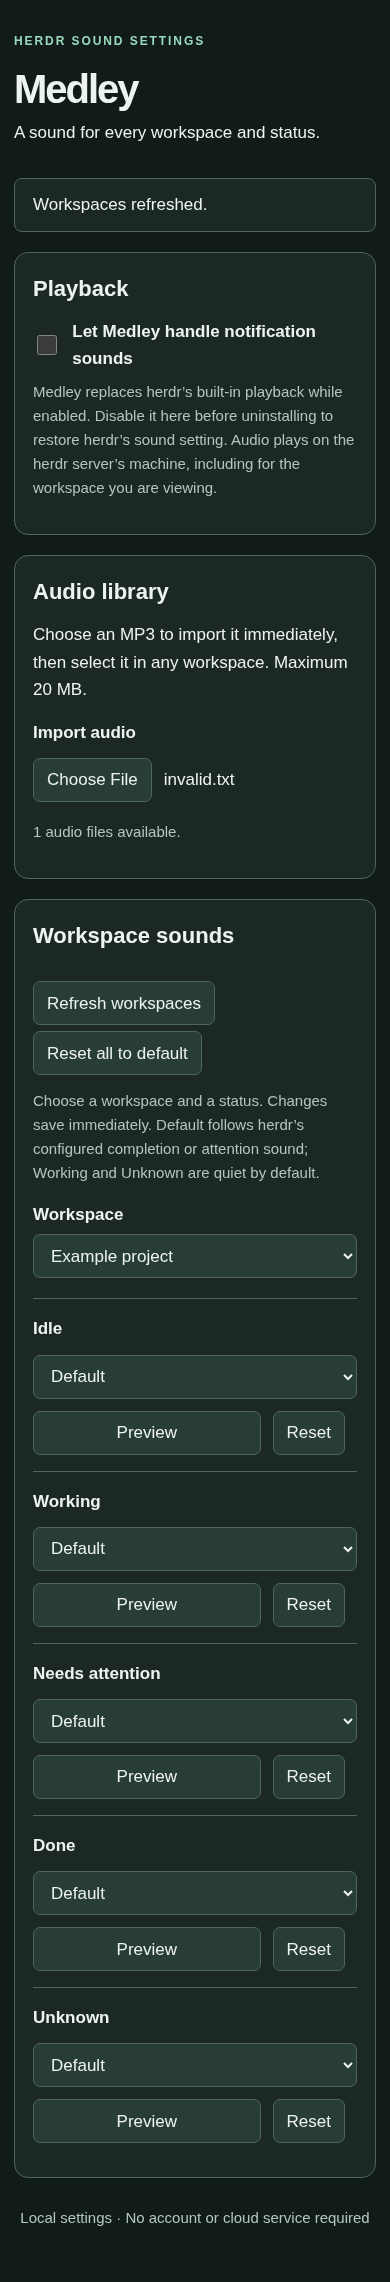
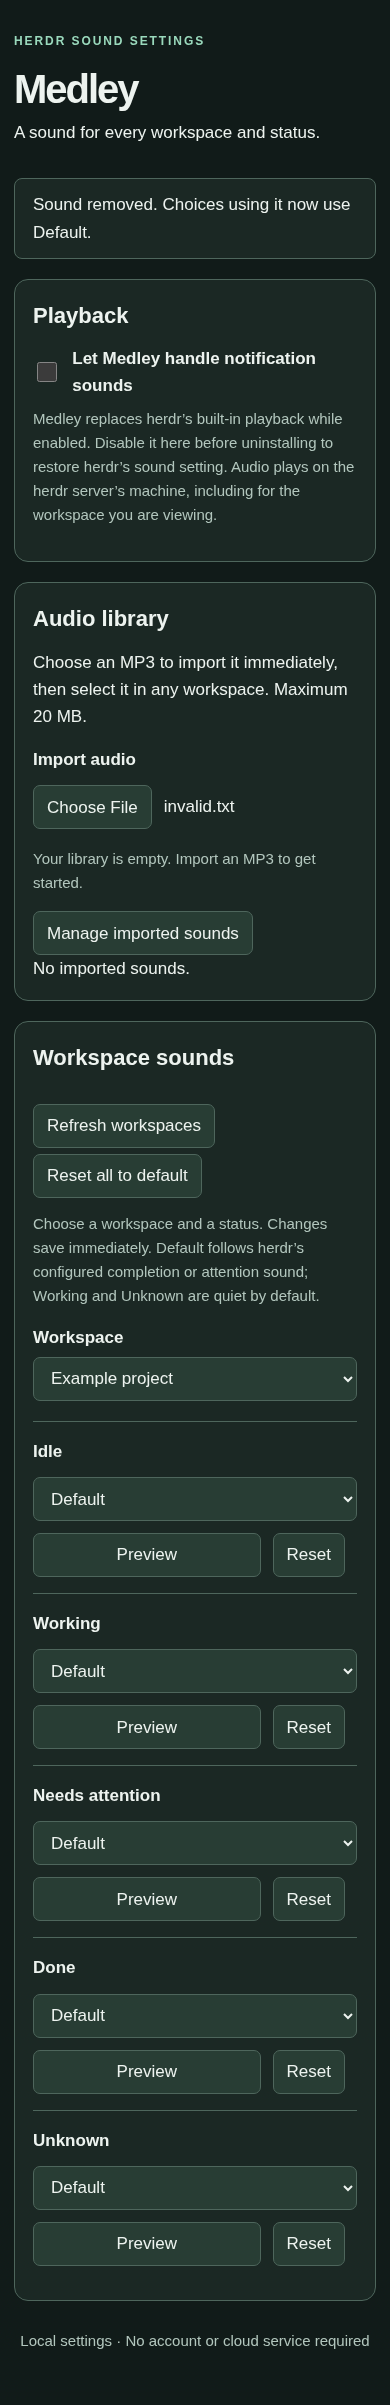
Manage imported sounds and reset removed sound assignments

diff --git a/assets/style.css b/assets/style.css
@@ -1,1 +1,3 @@
 :root{color-scheme:light dark;--bg:#f5f3ee;--panel:#fff;--ink:#202b29;--muted:#50635e;--border:#c1ccc7;--accent:#215f50;--button:#e8f1ed;--error:#9c2222}*{box-sizing:border-box}body{margin:0;background:var(--bg);color:var(--ink);font:1.0625rem/1.6 system-ui,sans-serif}main{max-width:1040px;margin:auto;padding:40px 24px}header{margin-bottom:32px}h1{font-size:48px;line-height:1.1;letter-spacing:-2px;margin:8px 0}h2{font-size:22px;margin:0 0 12px}.eyebrow{font-size:12px;font-weight:750;letter-spacing:.16em;color:var(--accent)}section{background:var(--panel);border:1px solid var(--border);border-radius:14px;padding:24px;margin:20px 0}p{margin:8px 0 16px}.help,footer{font-size:.9375rem;color:var(--muted)}button,select,input{font:inherit}button,select,input::file-selector-button{background:var(--button);color:var(--ink);border:1px solid var(--border);border-radius:7px;min-height:44px;padding:7px 13px}button,input::file-selector-button{cursor:pointer}input::file-selector-button{font:inherit;margin-right:12px}button:hover,input::file-selector-button:hover{border-color:var(--accent)}button:disabled,input:disabled::file-selector-button{opacity:.6;cursor:wait}:focus-visible{outline:3px solid var(--accent);outline-offset:3px}label{display:block;font-weight:600;margin-bottom:6px}.toggle{display:flex;gap:12px;align-items:center}.toggle input{width:22px;height:22px}input[type=file]{max-width:100%;margin:6px 8px 10px 0}.section-heading{display:flex;justify-content:space-between;gap:16px;flex-wrap:wrap}.section-heading button{margin-bottom:6px}.filters select{width:100%;max-width:550px;margin-bottom:20px}.rule{display:grid;grid-template-columns:150px minmax(160px,1fr) auto auto;align-items:center;gap:12px;padding:16px 0;border-top:1px solid var(--border)}.rule label{margin:0}.rule select{min-width:0;width:100%}#feedback{background:var(--panel);border:1px solid var(--border);padding:12px 18px;border-radius:8px}#error{color:var(--error);font-weight:600}footer{text-align:center;margin:28px 0}@media(max-width:640px){main{padding:24px 14px}section{padding:18px}.rule{grid-template-columns:1fr auto auto}.rule label{grid-column:1/-1}.rule select{grid-column:1/-1}h1{font-size:40px}}@media(prefers-color-scheme:dark){:root{--bg:#111b19;--panel:#1b2824;--ink:#edf3ef;--muted:#b2c6bd;--border:#4e665c;--accent:#9ad9bc;--button:#283d34;--error:#ffb3ad}}
+
+.library-file{display:flex;align-items:center;justify-content:space-between;gap:16px;padding:12px 0;border-bottom:1px solid var(--border)}.library-file span{overflow-wrap:anywhere;min-width:0}

diff --git a/assets/index.html b/assets/index.html
@@ -3,7 +3,7 @@
 <body><main><header><p class="eyebrow">HERDR SOUND SETTINGS</p><h1>Medley</h1><p>A sound for every workspace and status.</p></header>
 <p id="feedback" role="status" aria-live="polite">Loading settings…</p><p id="error" role="alert" hidden></p><audio id="player" controls hidden aria-label="Sound preview"></audio>
 <section aria-labelledby="playback-heading"><h2 id="playback-heading">Playback</h2><label class="toggle"><input type="checkbox" id="enabled"> Let Medley handle notification sounds</label><p class="help">Medley replaces herdr’s built-in playback while enabled. Disable it here before uninstalling to restore herdr’s sound setting. Audio plays on the herdr server’s machine, including for the workspace you are viewing.</p></section>
-<section aria-labelledby="library-heading"><h2 id="library-heading">Audio library</h2><p>Choose an MP3 to import it immediately, then select it in any workspace. Maximum 20 MB.</p><label for="upload">Import audio</label><input type="file" accept=".mp3,audio/mpeg" id="upload"><p id="library" class="help"></p></section>
+<section aria-labelledby="library-heading"><h2 id="library-heading">Audio library</h2><p>Choose an MP3 to import it immediately, then select it in any workspace. Maximum 20 MB.</p><label for="upload">Import audio</label><input type="file" accept=".mp3,audio/mpeg" id="upload"><p id="library" class="help"></p><button id="manage-library" aria-expanded="false" aria-controls="library-files">Manage imported sounds</button><div id="library-files" hidden></div></section>
 <section aria-labelledby="rules-heading"><div class="section-heading"><h2 id="rules-heading">Workspace sounds</h2><div><button id="refresh">Refresh workspaces</button> <button id="reset">Reset all to default</button> <button id="undo" hidden>Undo reset</button></div></div><p class="help">Choose a workspace and a status. Changes save immediately. Default follows herdr’s configured completion or attention sound; Working and Unknown are quiet by default.</p>
 <div class="filters"><div><label for="workspace">Workspace</label><select id="workspace"></select></div></div><div id="rules"></div></section>
 <footer>Local settings · No account or cloud service required</footer></main></body></html>

diff --git a/assets/app.js b/assets/app.js
@@ -48,6 +48,31 @@ function drawRules() {
     row.append(label,select,preview,reset); $('rules').append(row);
   }
 }
+function drawLibrary() {
+  $('library-files').replaceChildren();
+  for (const audio of model.audio.slice().sort((a,b)=>a.name.localeCompare(b.name,undefined,{sensitivity:'base',numeric:true}))) {
+    const row = document.createElement('div'); row.className = 'library-file';
+    const name = document.createElement('span'); name.textContent = audio.name.replace(/\.mp3$/i,'');
+    const remove = document.createElement('button'); remove.textContent = 'Remove';
+    remove.setAttribute('aria-label','Remove ' + name.textContent);
+    remove.onclick = () => {
+      if (!confirm('Remove “' + name.textContent + '” from the library? Every workspace/status using it will return to Default. You can import the file again later.')) return;
+      return run('Sound removed. Choices using it now use Default.',async () => {
+        await request('/remove',{id:audio.id});
+        $('player').pause(); $('player').hidden=true;
+        savedRules=undefined; $('undo').hidden=true;
+        await load(); $('manage-library').focus();
+      });
+    };
+    row.append(name,remove); $('library-files').append(row);
+  }
+  if (!model.audio.length) $('library-files').textContent='No imported sounds.';
+}
+$('manage-library').onclick = () => {
+  const expanded = $('manage-library').getAttribute('aria-expanded') !== 'true';
+  $('manage-library').setAttribute('aria-expanded',String(expanded));
+  $('library-files').hidden = !expanded;
+};
 async function load() {
   const selected = $('workspace').value;
   model = await request('/api');
@@ -56,6 +81,7 @@ async function load() {
   $('workspace').replaceChildren(...model.workspaces.map(w => option(w.workspace_id,w.label || w.workspace_id)));
   if (model.workspaces.some(w => w.workspace_id === selected)) $('workspace').value = selected;
   drawRules();
+  drawLibrary();
 }
 $('workspace').onchange = drawRules;
 $('refresh').onclick = () => run('Workspaces refreshed.',load);

diff --git a/medley/core.py b/medley/core.py
@@ -107,12 +107,33 @@ def import_audio(name, content):
             os.unlink(temporary)
 
 
+def remove_audio(key):
+    if not isinstance(key, str) or len(key) != 64 or any(c not in '0123456789abcdef' for c in key):
+        raise ValueError('Choose an audio file from the library.')
+    with locked(config_dir()):
+        if key not in {audio['id'] for audio in library()}:
+            raise ValueError('This sound is no longer in the library. Refresh and try again.')
+        data = settings()
+        for workspace in list(data['rules']):
+            rules = data['rules'][workspace]
+            for status in list(rules):
+                if rules[status] == key:
+                    del rules[status]
+            if not rules:
+                del data['rules'][workspace]
+        write_json(config_dir() / 'settings.json', data)
+        names = read_json(config_dir() / 'library.json', {})
+        names.pop(key, None)
+        write_json(config_dir() / 'library.json', names)
+        (config_dir() / 'audio' / (key + '.mp3')).unlink()
+
+
 def set_rule(workspace, status, choice):
     if status not in STATUSES or not isinstance(workspace, str) or len(workspace) > 200:
         raise ValueError('Choose a valid workspace and status.')
-    if choice not in ('default', 'none') and choice not in {a['id'] for a in library()}:
-        raise ValueError('Choose an audio file from the library.')
     def change(data):
+        if choice not in ('default', 'none') and choice not in {a['id'] for a in library()}:
+            raise ValueError('Choose an audio file from the library.')
         rules = data['rules'].setdefault(workspace, {})
         if choice == 'default':
             rules.pop(status, None)

diff --git a/tests/test_medley.py b/tests/test_medley.py
@@ -49,6 +49,21 @@ class MedleyTests(unittest.TestCase):
             with self.assertRaises(ValueError):
                 core.set_rule('w1', status, choice)
 
+    def test_remove_resets_all_uses_and_preserves_other_rules(self):
+        key = core.import_audio('remove.mp3', (core.ROOT / 'assets/done.mp3').read_bytes())
+        core.set_rule('w1', 'done', key)
+        core.set_rule('w2', 'idle', key)
+        core.set_rule('w2', 'working', 'none')
+        core.remove_audio(key)
+        self.assertEqual(core.settings()['rules'], {'w2': {'working': 'none'}})
+        self.assertEqual(core.library(), [])
+        self.assertEqual(core.resolve(core.settings(), 'w1', 'done'), core.ROOT / 'assets/done.mp3')
+        with self.assertRaises(ValueError):
+            core.set_rule('w1', 'done', key)
+        for invalid in ['../../file', key]:
+            with self.assertRaises(ValueError):
+                core.remove_audio(invalid)
+
     def test_invalid_import(self):
         for name, content in [('file.wav', b'x'), ('file.mp3', b''), ('file.mp3', b'invalid audio')]:
             with self.assertRaises(ValueError):

diff --git a/medley/app.py b/medley/app.py
@@ -59,7 +59,9 @@ def serve(open_browser=True, port=0):
                 if not 0 < length <= core.MAX_AUDIO * 2:
                     raise ValueError('Request is empty or too large. Maximum audio size is 20 MB.')
                 data = json.loads(self.rfile.read(length))
-                if self.path == '/rule':
+                if self.path == '/remove':
+                    core.remove_audio(data['id'])
+                elif self.path == '/rule':
                     core.set_rule(data['workspace'], data['status'], data['choice'])
                 elif self.path == '/reset':
                     core.update(lambda settings: settings.update(rules={}))

diff --git a/docs/validation.md b/docs/validation.md
@@ -142,3 +142,35 @@ all 11 Python checks also passed. Selection IDs and stored library order unchang
 Input-and-interaction: existing native single-select, labels, keyboard operation,
 validation/recovery, safe defaults and reset/undo remain unchanged and browser-tested.
 No password input or new action. No vendored block extended.
+
+## Manage imported sounds — 2026-10-20
+
+Expandable native button reveals imported sounds with named Remove buttons.
+Confirmation explains all affected choices return to Default. Backend removal
+uses the configuration lock, validates a SHA-256 ID and membership, resets every
+reference before deleting the imported copy, and preserves unrelated rules.
+Rule validation now occurs under the same lock, preventing new references racing
+removal. Removal also invalidates the page's reset undo snapshot.
+
+12 Python tests passed, including multi-workspace reset, unrelated-rule preservation,
+missing/traversal rejection and default resolution. Chromium tests passed for
+viewing the list, cancelling confirmation, successful removal, and dropdown reset.
+Security: PASS for authenticated endpoint routing and strict path validation;
+original source files are never removal targets. Existing auth tests passed.
+
+Control-and-feedback checks: (1) existing busy status followed by explicit removal
+confirmation; (2) disclosure closes freely and native confirmation cancels removal;
+(3) confirmation names default reset and busy state prevents repeat actions;
+(4) missing sound errors advise refresh, controls recover through existing handler;
+(5) only imported copy and referencing choices affected, unrelated rules tested;
+(6) busy feedback immediate; (7) local bounded operation uses existing busy state;
+(8) no new routes, selected workspace retained after load.
+Input-and-interaction checks: (1) IDs validated server-side; (2) recoverable error;
+(3) native named buttons and aria-expanded/controls; (4) explicit Remove action with
+confirmation; (5) existing library names reused; (6) no new reset/clear button;
+(7) no passwords; (8) native sound selectors unchanged.
+Aesthetic-and-clear checks: (1) list initially collapsed; (2) visible named actions;
+(3) no motion; (4) sorted list and per-file rows; (5) shared theme/font tokens and
+wrapping long names, mobile overflow test passes; (6) native keyboard controls and
+existing keyboard test pass, screen-reader/manual zoom not independently tested.
+No vendored layout extended. Synthetic captures refreshed by browser tests.

diff --git a/README.md b/README.md
@@ -37,6 +37,8 @@ A workspace may contain several agents. Medley reads herdr's **combined workspac
 
 Default follows herdr's configured `done_path` / `request_path`, then `path`. If no usable custom file exists, Medley uses herdr's bundled completion or attention clip. Idle and Done use completion; Needs attention uses attention; Working and Unknown are quiet. Explicit selections can add audio to any status.
 
+Use **Manage imported sounds** to view the library and remove a sound. Removal asks for confirmation and resets every workspace/status using that sound to Default. It removes only Medley’s imported copy, not the original file.
+
 ## Where audio plays
 
 Plugin hooks run on the **herdr server machine**, so audio plays there, including for the currently focused workspace. This release does not route sound to remote clients or mirror herdr's focused-tab suppression. It is suitable for a local desktop server; do not enable it on a remote server expecting your laptop to play audio. Playback is bounded to 30 seconds per clip; overlapping notifications are dropped while a clip is playing. Very long MP3s may be interrupted.
